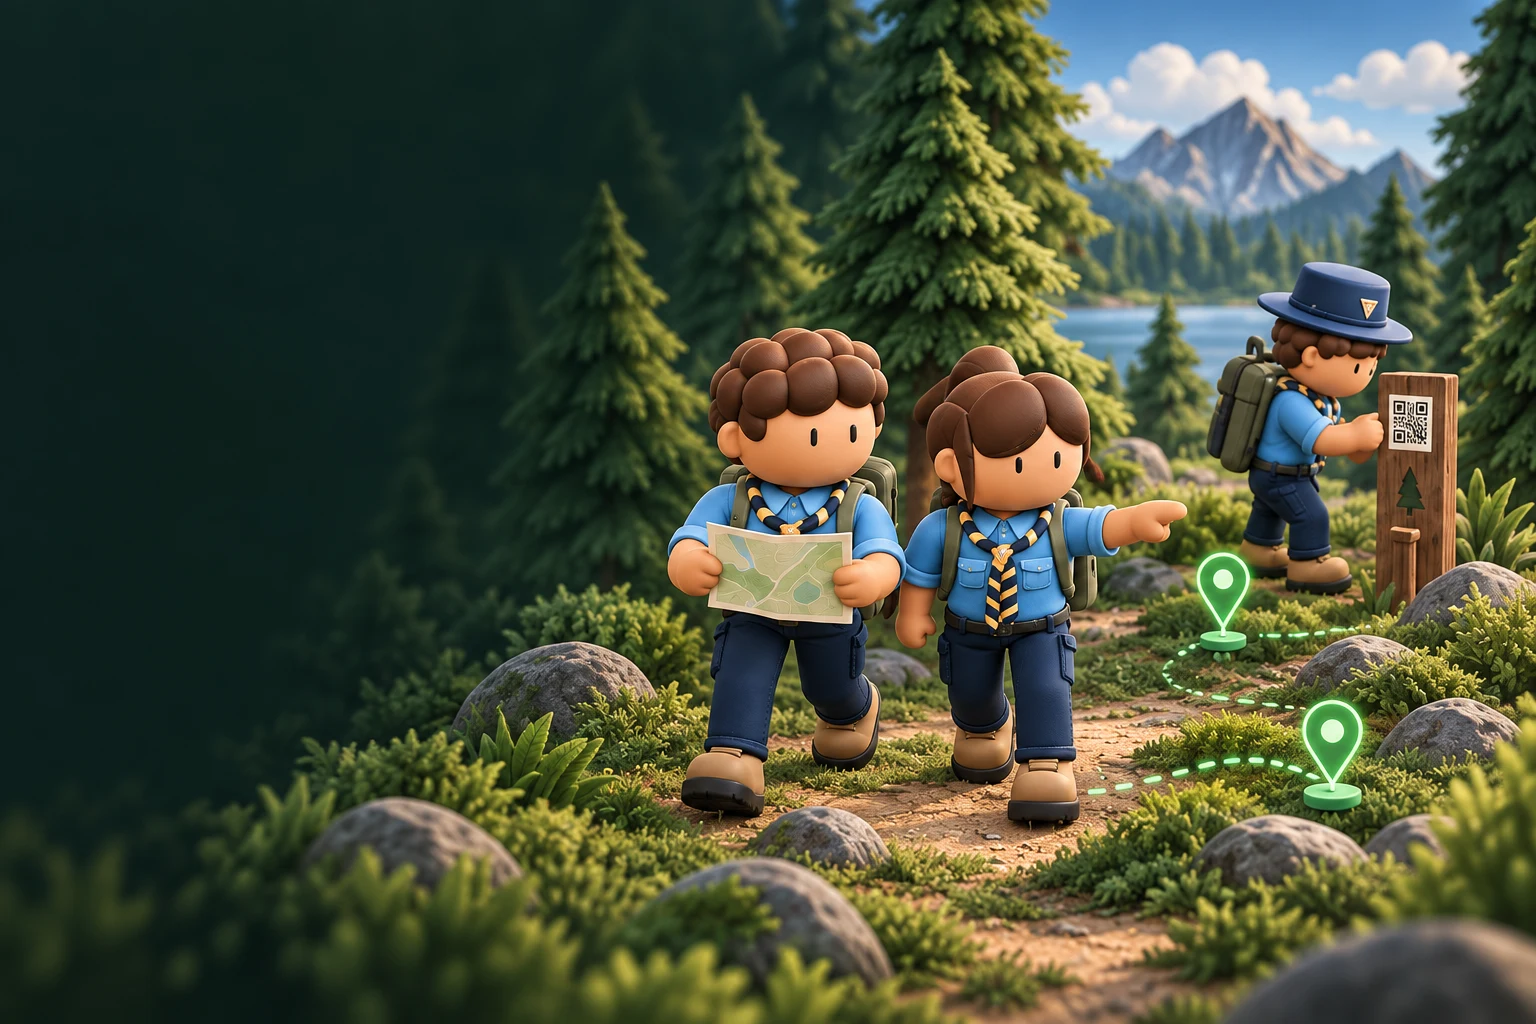
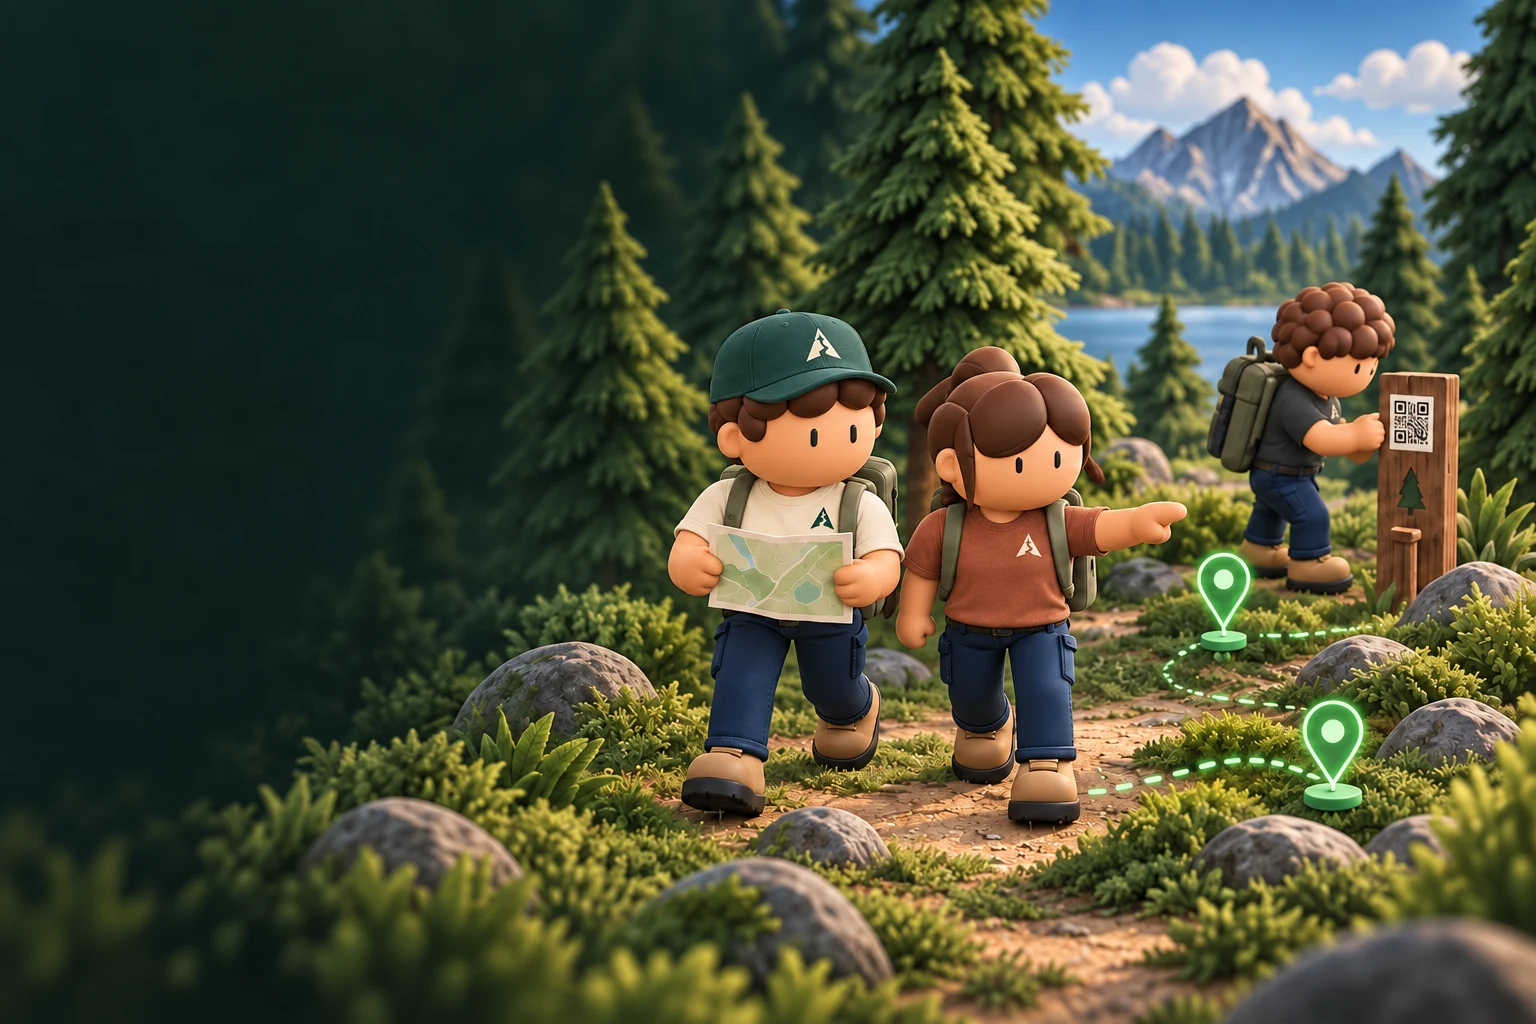
Introduce PointFinder mascot landing artwork and NFC checkpoint

diff --git a/web/src/features/public/LandingPage.test.tsx b/web/src/features/public/LandingPage.test.tsx
@@ -113,9 +113,9 @@ describe('LandingPage', () => {
 
   it('keeps the page readable when artwork and screenshots fail to load', () => {
     mount()
-    const hero = screen.getByRole('img', { name: /Three scouts on a forest trail/ })
+    const hero = screen.getByRole('img', { name: /Three explorers on a forest trail/ })
     fireEvent.error(hero)
-    expect(screen.getByRole('img', { name: /Three scouts on a forest trail/ })).toHaveTextContent(/Three scouts on a forest trail/)
+    expect(screen.getByRole('img', { name: /Three explorers on a forest trail/ })).toHaveTextContent(/Three explorers on a forest trail/)
     const shot = screen.getByRole('img', { name: /Command workspace/ })
     fireEvent.error(shot)
     expect(screen.getByRole('img', { name: /Command workspace/ })).toHaveTextContent('Screenshot unavailable')
@@ -135,7 +135,7 @@ describe('LandingPage', () => {
     expect(screen.getByRole('img', { name: /QR code on a wooden base post/ })).toHaveAttribute('src', '/landing/illustrated/step-checkin.webp')
     expect(screen.getByRole('img', { name: /guide with a backpack/ })).toHaveAttribute('src', '/landing/illustrated/guide-pointing.webp')
     expect(screen.getByRole('img', { name: /Command workspace/ })).toHaveAttribute('src', '/landing/illustrated/workspace-preview.webp')
-    expect(screen.getByRole('img', { name: /Three scouts on a forest trail/ })).toHaveAttribute('src', '/landing/illustrated/hero.webp')
+    expect(screen.getByRole('img', { name: /Three explorers on a forest trail/ })).toHaveAttribute('src', '/landing/illustrated/hero.webp')
     expect(screen.getByText(/Costa de Lavos, Portugal/)).toBeInTheDocument()
     expect(screen.getByRole('heading', { name: 'Your next adventure starts here.' })).toBeInTheDocument()
   })

diff --git a/web/e2e/homepage.spec.ts b/web/e2e/homepage.spec.ts
@@ -104,7 +104,7 @@ test('reads fine when every image is blocked and no hero motion plays under redu
   await expect(page.getByRole('heading', { level: 1 })).toBeVisible()
   const fallbacks = page.getByTestId('landing-artwork-fallback')
   await expect(fallbacks.first()).toBeVisible()
-  await expect(fallbacks.first()).toContainText(/Three scouts on a forest trail/)
+  await expect(fallbacks.first()).toContainText(/Three explorers on a forest trail/)
   await expect(page.locator('#organizers').getByTestId('landing-artwork-fallback').filter({ hasText: 'Screenshot unavailable' })).toBeVisible()
   await expect(page.getByRole('heading', { name: 'Out in the field. Always in the loop.' })).toBeVisible()
   await expect(page.getByRole('heading', { name: 'Your next adventure starts here.' })).toBeVisible()
@@ -126,7 +126,7 @@ test('plays the hero arrival once when motion is allowed', async ({ page }) => {
 test('the hero keeps the whole scene in view and every illustration is the imported artwork', async ({ page }) => {
   await page.goto('/')
   await expect(page.getByRole('heading', { level: 1 })).toBeVisible()
-  const hero = page.getByRole('img', { name: /Three scouts on a forest trail/ })
+  const hero = page.getByRole('img', { name: /Three explorers on a forest trail/ })
   await expect(hero).toHaveAttribute('src', '/landing/illustrated/hero.webp')
   await expect(hero).toHaveJSProperty('naturalWidth', 1536)
   for (const width of [320, 390, 639, 640, 768, 1000, 1024, 1280, 1600]) {

diff --git a/artifacts/landing-mascot-v2/README.md b/artifacts/landing-mascot-v2/README.md
@@ -1,0 +1,11 @@
+# Landing mascot clothing replacement
+
+Built-in image generation edited each original character illustration separately, using the user's three-outfit lineup as clothing reference. The page layout, colors, copy, pricing and interaction design stay unchanged.
+
+- `source/hero.png`: cream/green-cap main mascot, rust-shirt companion and charcoal-shirt background explorer. Imported to the existing hero WebP.
+- `source/step-plan.png`, `source/step-explore.png`, `source/step-checkin.png`, `source/guide-pointing.png`: generated replacements awaiting genuine alpha extraction before import. The generator painted checkerboards despite transparency instructions; these are not usable transparent assets yet.
+- `source/step-checkin-nfc.png`: approved checkpoint revision with an NFC tap plate and the canonical PointFinder mark engraved into the post. This supersedes the QR variant for eventual integration. Background extraction remains pending. `nfc-edit-prompt.txt` records the edit instructions.
+- The original forest footer and real workspace screenshot contain no uniforms and remain unchanged.
+- `prompts.json`: generation instructions. Original artwork is preserved in `../landing-illustrated-v1/source/`.
+
+Integration status: only the hero is imported into the website. The four cutouts are saved source artwork awaiting background removal; the NFC revision is the selected check-in source. Alt text for the still-displayed original cutouts stays unchanged until replacement.
